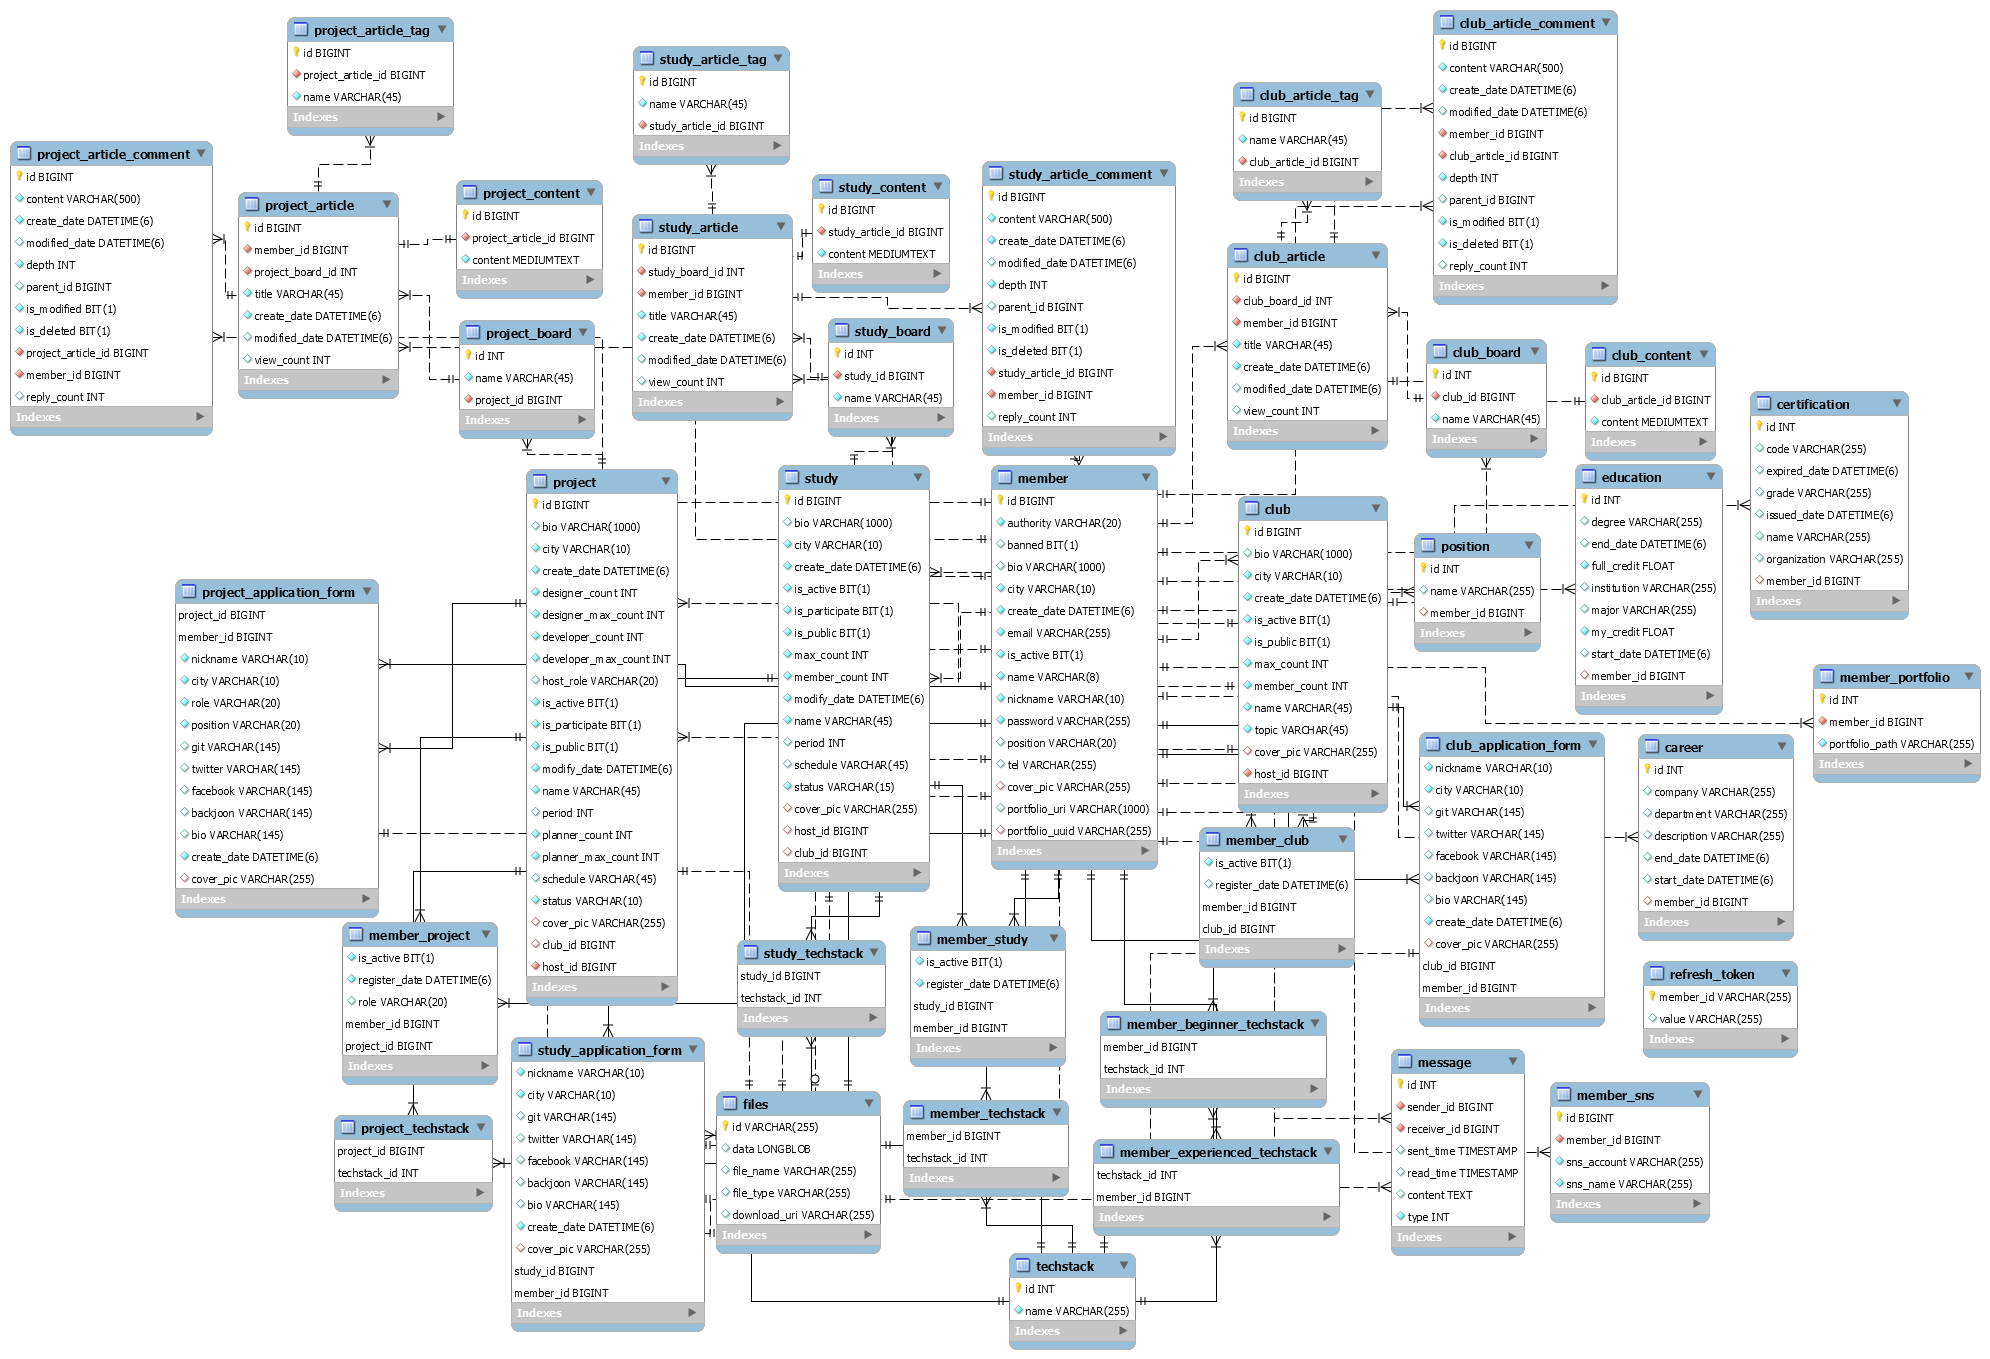
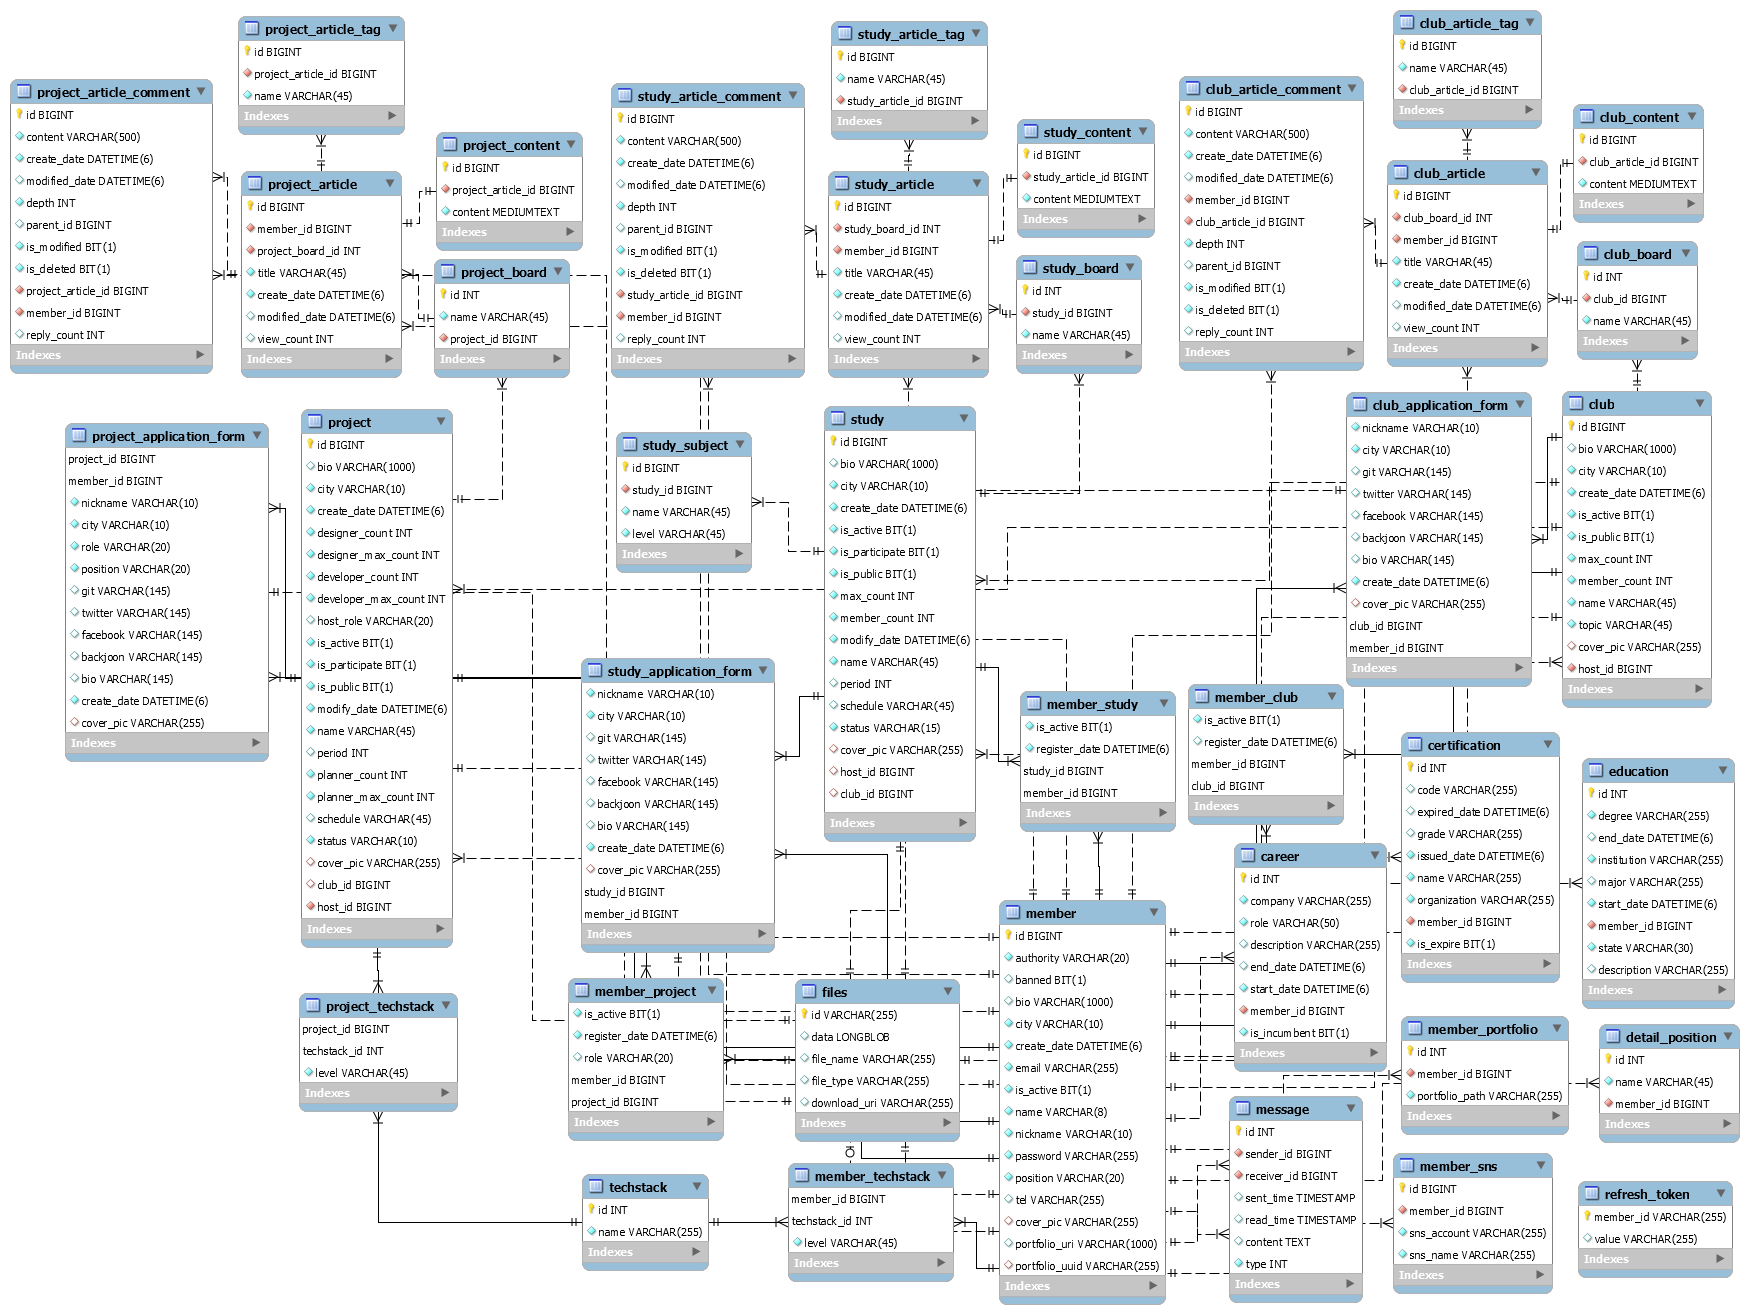
docs: change subject table, latest deschema.png, latest dbmodel

diff --git a/spring/src/main/java/com/ssafy/match/db/entity/State.java b/spring/src/main/java/com/ssafy/match/db/entity/State.java
@@ -1,5 +1,12 @@
 package com.ssafy.match.db.entity;
 
+import com.fasterxml.jackson.annotation.JsonCreator;
+
 public enum State {
-    졸업, 재학, 중퇴, 수료
+    졸업, 재학, 중퇴, 수료;
+
+    @JsonCreator
+    public static State from(String s) {
+        return State.valueOf(s.toUpperCase());
+    }
 }
